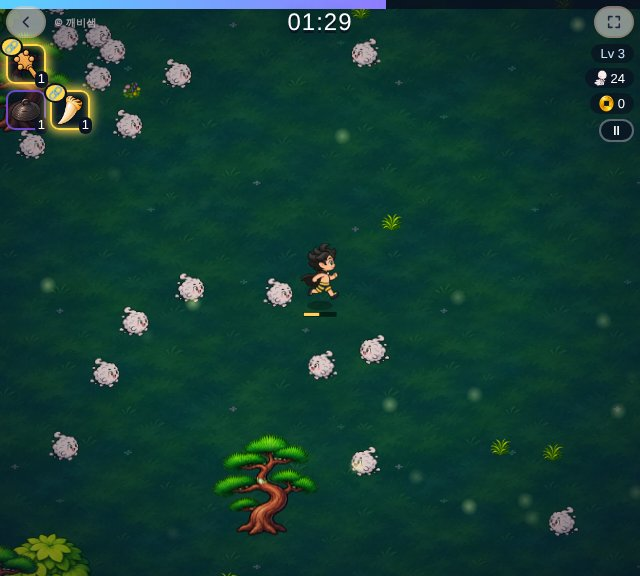
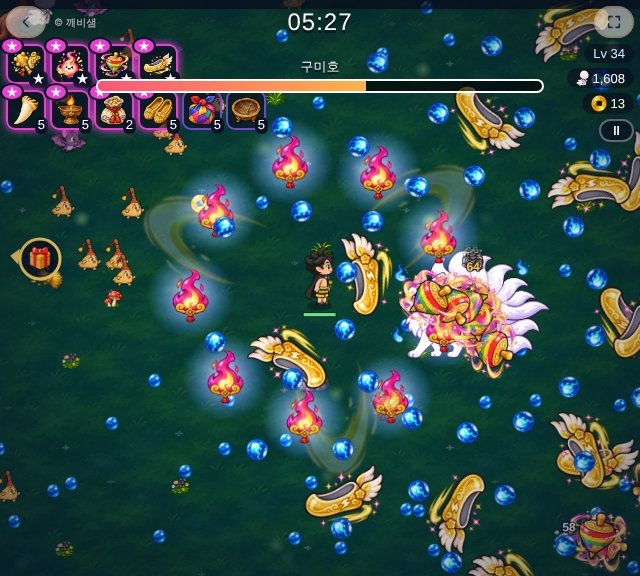
생존기 썸네일: 구미호 잡는 장면 (#121)
* 홈 화면: 깨비샘 캐릭터와 새 사이트 이름(깨비샘과 쉬는 시간)

Claude-Session: https://claude.ai/code/session_01TJDp5XNDx63cZsB8aKiCUZ

* 홈 화면: 새 로고로 교체

Claude-Session: https://claude.ai/code/session_01TJDp5XNDx63cZsB8aKiCUZ

* 맞춤법 게임: 깨비샘 캐릭터와 새 로고 (깨비샘의 한글 맞춤법 대소동)

Claude-Session: https://claude.ai/code/session_01TJDp5XNDx63cZsB8aKiCUZ

* 영어 타자 연습: 깨비샘 캐릭터와 새 로고 (깨비샘의 영어 타자 연습)

Claude-Session: https://claude.ai/code/session_01TJDp5XNDx63cZsB8aKiCUZ

* 국기 맞히기: 깨비샘 캐릭터와 새 로고 (깨비샘의 국기 맞히기)

Claude-Session: https://claude.ai/code/session_01TJDp5XNDx63cZsB8aKiCUZ

* 블록 쌓기: 깨비샘 캐릭터와 새 로고 (깨비샘의 블록 쌓기)

Claude-Session: https://claude.ai/code/session_01TJDp5XNDx63cZsB8aKiCUZ

* 오목 대결: 깨비샘 캐릭터, 스티커, 새 로고 (깨비샘의 오목 대결)

Claude-Session: https://claude.ai/code/session_01TJDp5XNDx63cZsB8aKiCUZ

* 홈 화면: 로고 크게, 휴대폰 카드 썸네일을 원래 비율(10:9)로

Claude-Session: https://claude.ai/code/session_01TJDp5XNDx63cZsB8aKiCUZ

* 홈 화면: 인스타그램 계정 ggaebilog로 변경

Claude-Session: https://claude.ai/code/session_01TJDp5XNDx63cZsB8aKiCUZ

* 블록 쌓기: 제목 위 빼꼼 깨비샘 빼기

Claude-Session: https://claude.ai/code/session_01TJDp5XNDx63cZsB8aKiCUZ

* 알까기: 깨비샘 캐릭터와 새 로고 (깨비샘의 알까기)

Claude-Session: https://claude.ai/code/session_01TJDp5XNDx63cZsB8aKiCUZ

* 블록 쌓기: 블록이 들어간 새 로고

Claude-Session: https://claude.ai/code/session_01TJDp5XNDx63cZsB8aKiCUZ

* 맞춤법 게임: 새 로고로 교체

Claude-Session: https://claude.ai/code/session_01TJDp5XNDx63cZsB8aKiCUZ

* Use new 깨비샘 face (yellow circle) for site icons and face-64
[…]

diff --git a/index.html b/index.html
@@ -193,7 +193,7 @@ body.adm-edit .adm-num{display:flex}
     </a>
     <a class="game" href="survivor/">
       <span class="adm-num"></span>
-      <img src="survivor/thumb.jpg?v=3" alt="깨비샘의 도깨비숲 생존기 게임 화면">
+      <img src="survivor/thumb.jpg?v=4" alt="깨비샘의 도깨비숲 생존기 게임 화면">
       <div class="title"><b>깨비샘의 도깨비숲 생존기</b></div>
       <p>몰려오는 숲속 요괴를 피해 20분! 무기를 키우고 조합해요.</p>
     </a>
